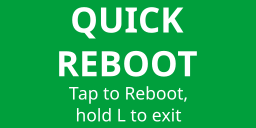
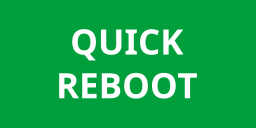
Remove L cancel functionality for use with A9lh AuReiNand

Changed region(s): [[0.2188, 0.0312, 0.7812, 0.8125], [0.2812, 0.8438, 0.7188, 0.9688]]

diff --git a/source/main.c b/source/main.c
@@ -6,7 +6,6 @@ void __appInit()
     // Initialize services
     srvInit();
     aptInit();
-    hidInit();
     gfxInitDefault();
 }
 
@@ -14,22 +13,14 @@ void __appExit()
 {
     // Exit services
     gfxExit();
-    hidExit();
     aptExit();
     srvExit();
 }
 
-
-
 int main()
 {
-    // HID Input
-    hidScanInput();
-    // Abort reboot if L is pressed
-    if (hidKeysDown() != KEY_L) {
 	aptOpenSession();
 	APT_HardwareResetAsync();
 	aptCloseSession();
-    }
     return 0;
 }
